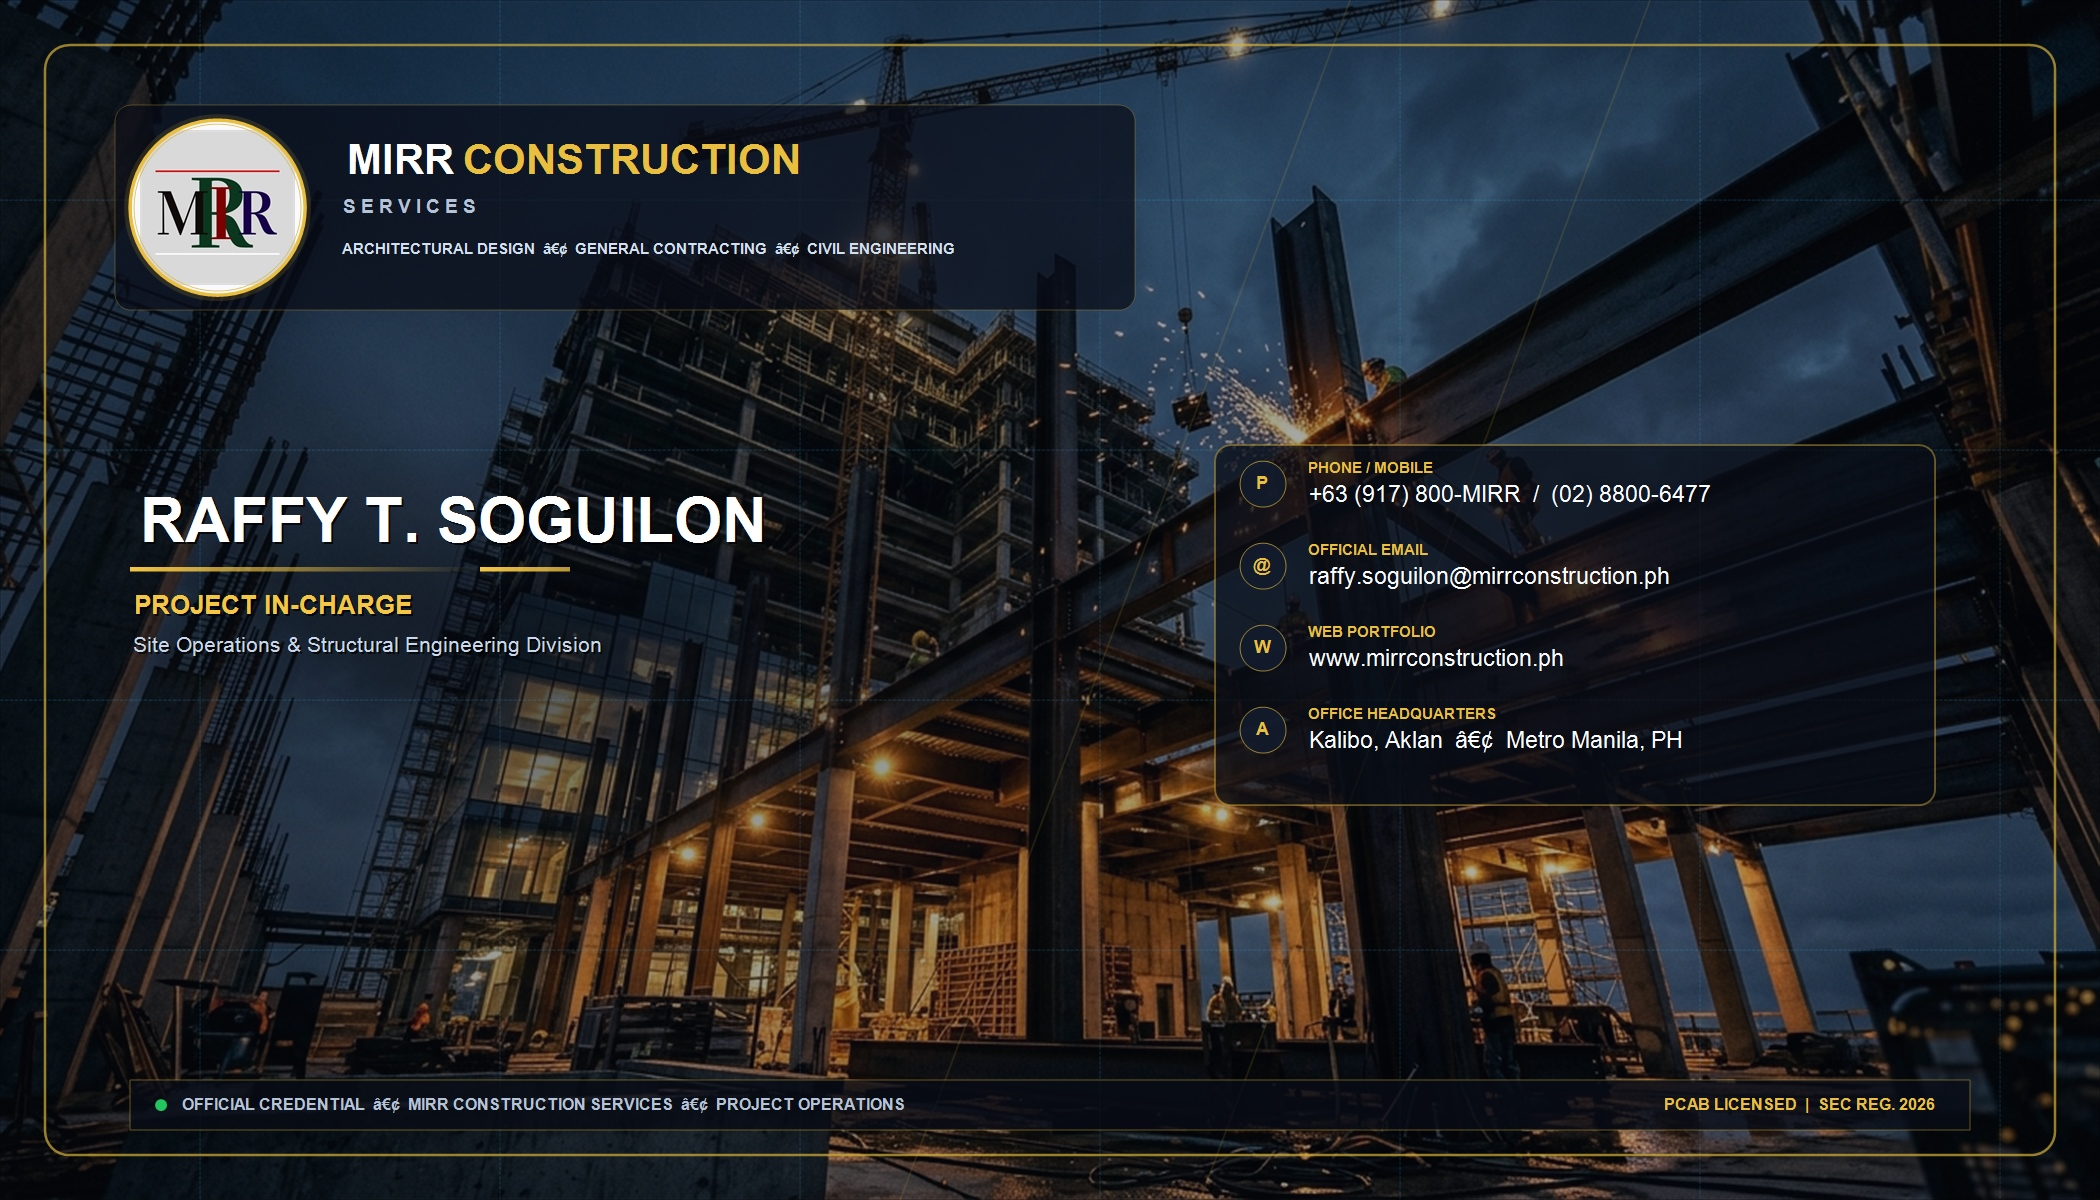
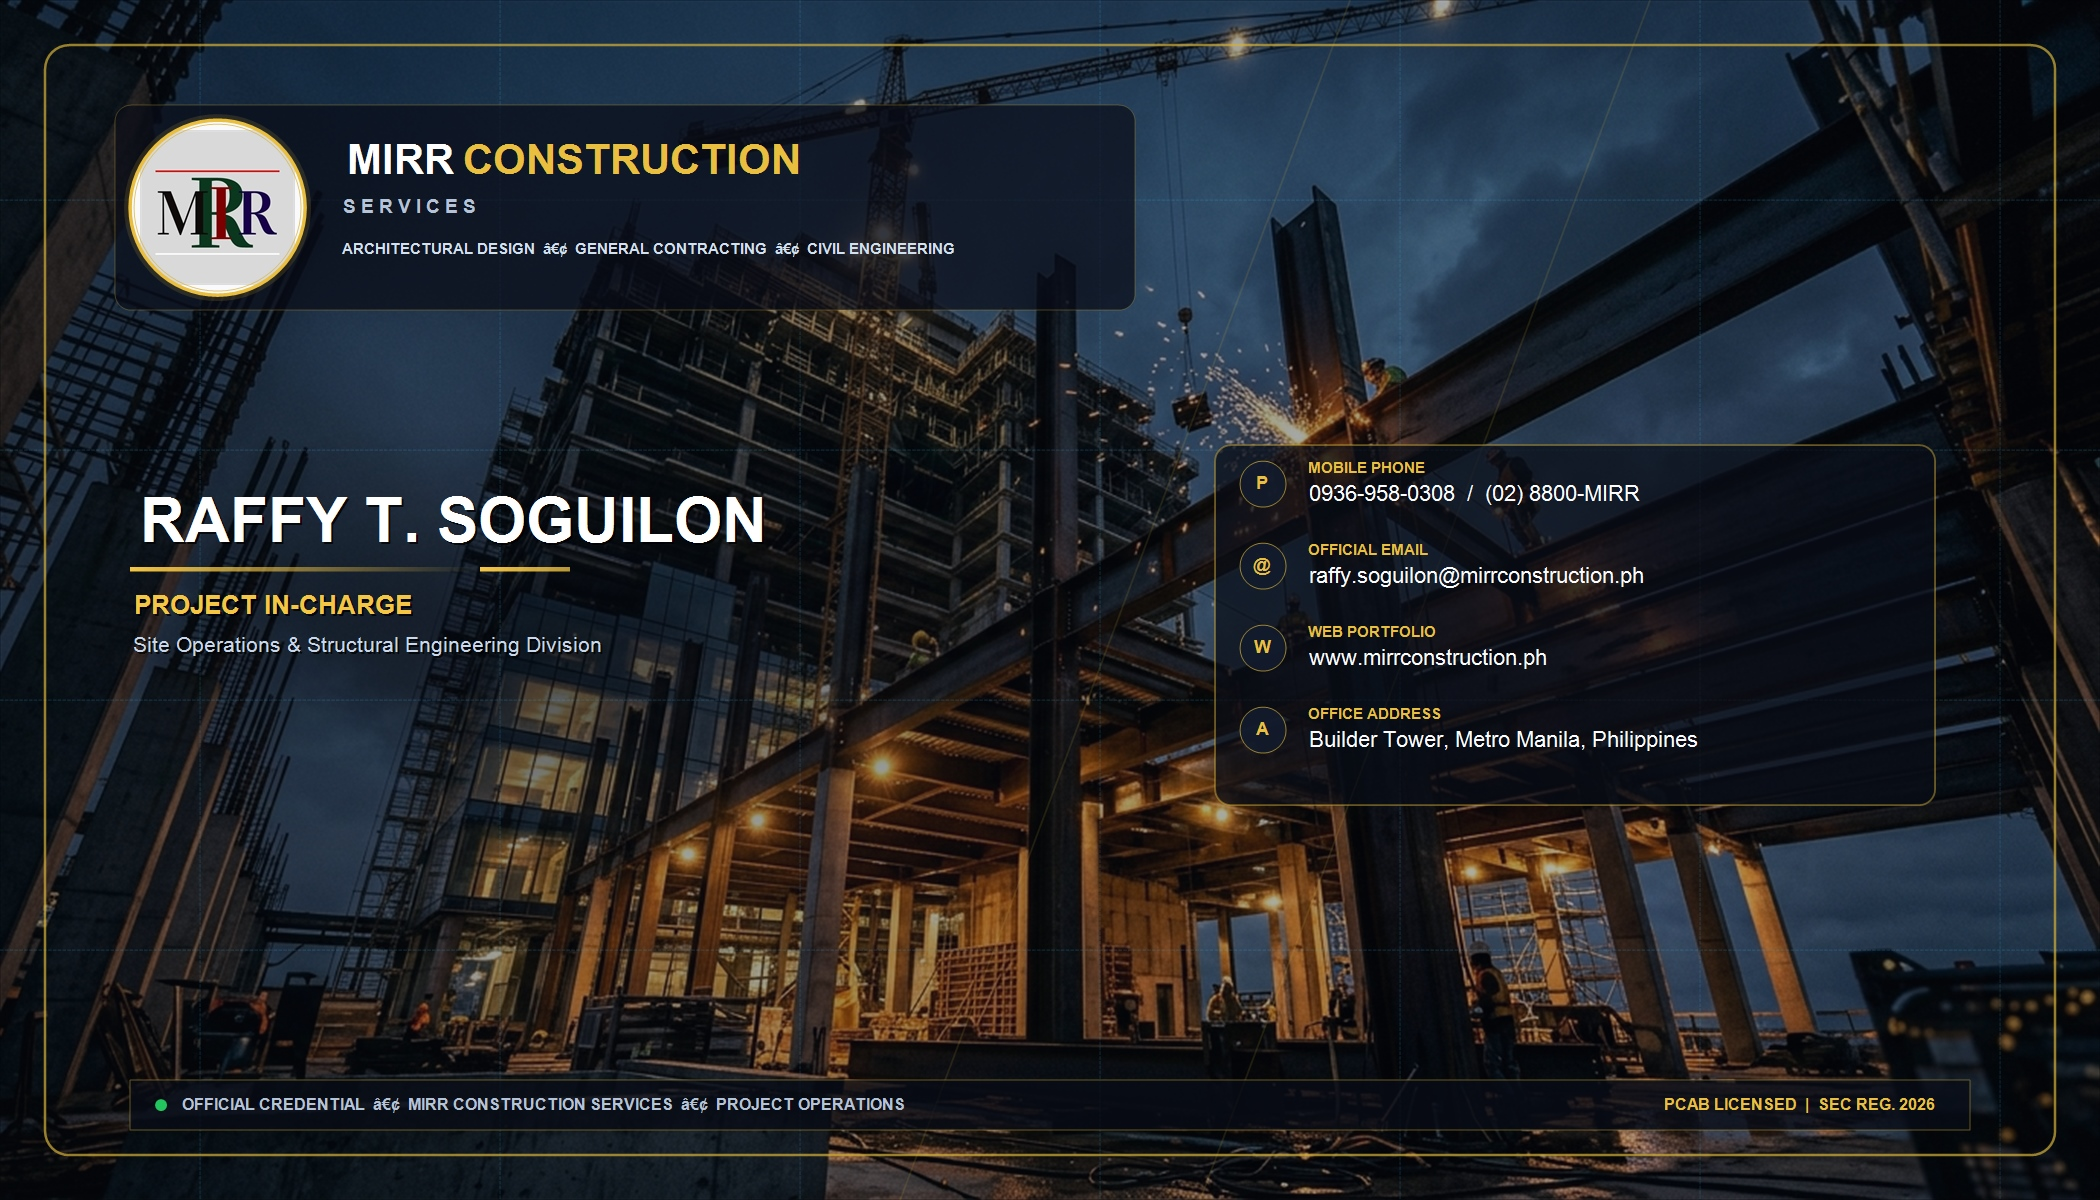
Update business card with mobile 0936-958-0308 and Builder Tower office address

diff --git a/MIRR_Business_Card.html b/MIRR_Business_Card.html
@@ -367,7 +367,7 @@
   <header class="header">
     <div class="badge-tag"><span></span> Official Corporate Identity</div>
     <h1>MIRR Construction Services</h1>
-    <p class="subtitle">Executive Business Card Suite &bull; Raffy T. Soguilon, Project In-Charge &bull; Standard International Format (3.5" &times; 2.0")</p>
+    <p class="subtitle">Executive Business Card Suite &bull; Raffy T. Soguilon, Project In-Charge &bull; Builder Tower, Metro Manila, Philippines</p>
   </header>
 
   <!-- ACTION TOOLBAR -->
@@ -444,16 +444,16 @@
     <!-- SPECIFICATIONS -->
     <div class="spec-grid">
       <div class="spec-item">
+        <div class="spec-label">Mobile Phone</div>
+        <div class="spec-val">0936-958-0308</div>
+      </div>
+      <div class="spec-item">
+        <div class="spec-label">Office Address</div>
+        <div class="spec-val">Builder Tower, Metro Manila, PH</div>
+      </div>
+      <div class="spec-item">
         <div class="spec-label">Dimensions</div>
         <div class="spec-val">3.5" &times; 2.0" (88.9 &times; 50.8 mm)</div>
-      </div>
-      <div class="spec-item">
-        <div class="spec-label">Resolution</div>
-        <div class="spec-val">2100 &times; 1200 px (600 / 300 DPI)</div>
-      </div>
-      <div class="spec-item">
-        <div class="spec-label">Finish / Stock</div>
-        <div class="spec-val">Soft-Touch Matte + Gold Foil</div>
       </div>
       <div class="spec-item">
         <div class="spec-label">Accreditations</div>
